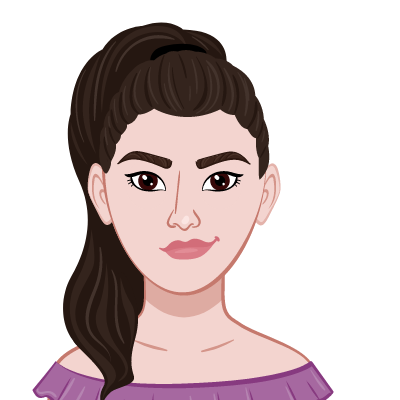
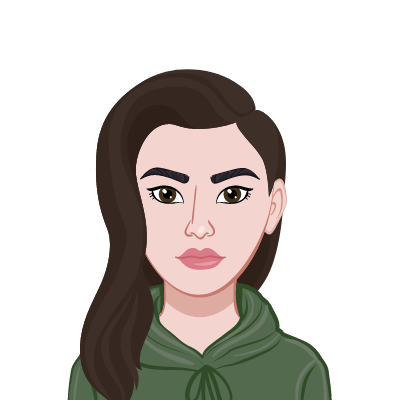
updated CSS and HTML

diff --git a/index.html b/index.html
@@ -18,7 +18,8 @@
     ></script>
     <link rel="stylesheet" href="css/style.css" />
   </head>
-    <nav class="navbar navbar-dark" style="background-color: #6f42c1">
+  <body> 
+    <nav class="navbar navbar-dark" style="background-color: #394a51">
       <div class="container">
         <a class="navbar-brand fw-bold" href="index.html">Jeniree A Castro</a>
         <button
@@ -54,52 +55,47 @@
     <h2 class="text-center">👋 Hi I am</h2>
     <h1 class="text-center fw-bold">Jeniree A Castro</h1>
     <h3 class="text-center fw-semibold">Front-end developer, based in United States</h3>
-    <div class="flip-card">
-  <div class="flip-card-inner">
-    <div class="flip-card-front">
-    <img src="images/AvatarMaker.png" alt="Avatar" width="200px"s>
-     </div>
-    <div class="flip-card-back">
-    <img src="images/Avatar.jpg" alt="Avatar" width="200px">
-    </div>
-  </div>
-</div>
+    <img src="images/AvatarMaker.png" class="rounded mx-auto d-block" alt="Avatar" width="200px"s>
     <div class="navigation-links mb-5">
       <a href="about.html#contact" class="contact-link">Contact me</a>
       <a href="about.html" class="about-link">About me</a>
     </div>
-    </div>
-    <h1 class="text-center ms-6 p-4"> Projects</h1>
-<div class="container">
-  <div class="row">
-    <div class="col-6 d-sm-block">
-      <h2 class="mb-5"> Cat Website 😸</h2>
-      <p>  Lorem ipsum dolor sit amet, consectetur adipisicing elit. Numquam aperiam
+  </div>
+   <div class="container">
+      <div class="row mb-5">
+        <div class="col d-none d-lg-block">
+          <img src="images/catwebsite.jpg" class="img-fluid" alt="Cat Website" width="300px" />
+        </div>
+        <div class="col">
+          <div class="project-desciption">
+            <h2 class="mb-5">Cat Website</h2>
+            <p class="mb-5">
+              Lorem ipsum dolor sit amet, consectetur adipisicing elit. Numquam aperiam
       provident tempora? Cumque adipisci, non dolorem quia, odit qui alias
       veniam excepturi rem dolor fugit dignissimos, sed voluptatum blanditiis
-      harum.</p>
-      <a href="https://s3.amazonaws.com/shecodesio-production/challenge_submissions/files/000/534/115/original/kirara.html?1633935942" class="btn btn-branding-outline" target="_blank">
-        Launch project
-      </a>
+      harum
+            </p>
+            <a href="https://s3.amazonaws.com/shecodesio-production/challenge_submissions/files/000/534/115/original/kirara.html?1633935942" class="btn btn-branding-outline"> Launch project </a>
+          </div>
+        </div>
       </div>
-        <div class="col-6">
-      <img src="images/catwebsite.jpg" class="img-fluid  d-none d-md-block" alt="Cat Website" />
-    </div>
-  </div>
-    <div class="container"> 
-      <div class="row">
-        <div class="col-6">
-          <img src="images/weatherApp.jpg" class="img-fluid p-4 d-none d-md-block" alt="Weather App" />
-        </div> 
-    <div class="col-6">
-      <h2 class="ms-4 p-4"> Weather App🌤 </h2>
-      <p>Lorem ipsum dolor sit amet, consectetur adipisicing elit. Numquam aperiam provident tempora? Cumque adipisci, non dolorem quia, odit qui alias veniam excepturi rem dolor fugit dignissimos, sed voluptatum blanditiis harum.
-
-      </p>
-      <a href="https://blissful-minsky-584121.netlify.app/" class="btn btn-branding-outline" target="_blank"> Launch project </a>
-    </div>
-  </div>
-</div> 
+      <div class="row mb-5">
+        <div class="col">
+          <div class="project-desciption">
+            <h2 class="mb-5">Weather App</h2>
+            <p class="mb-5">
+           Lorem ipsum dolor sit amet, consectetur adipisicing elit. Numquam aperiam
+      provident tempora? Cumque adipisci, non dolorem quia, odit qui alias
+      veniam excepturi rem dolor fugit dignissimos, sed voluptatum blanditiis
+      harum
+            </p>
+            <a href="https://blissful-minsky-584121.netlify.app/" class="btn btn-branding-outline"> Launch project </a>
+          </div>
+        </div>
+        <div class="col d-none d-lg-block">
+          <img src="images/weatherapp.jpg" class="img-fluid" alt="Weather App" width="300px" />
+        </div>
+      </div>
 <p class="text-center mt-4">
 					This project was coded by Jeniree Alvarez and is
 					<a href="https://github.com/Jejexd/Portafolio.git" target="_blank">open-sourced</a>.

diff --git a/css/style.css b/css/style.css
@@ -1,6 +1,6 @@
 :root {
-  --primary-color: #6c63ff;
-  --secondary-color: #f5f2fe;
+  --primary-color: #7fa99b;
+  --secondary-color: #fdc57b;
   --box-shadow: 0 5px 10px rgba(0, 0, 0, 0.3);
 }
 
@@ -21,11 +21,11 @@
 .contact-link {
   background: var(--primary-color);
   box-shadow: var(--box-shadow);
-  color: white;
+  color: #212529;
 }
 
 .about-link {
-  color: var(--primary-color);
+  color: #212529;
   border: 1px solid var(--primary-color);
 }
 
@@ -49,43 +49,21 @@
   font-family: "Smooch", cursive;
 }
 .hero {
-  background: #e7eaf6;
+  background: #fbf2d5;
 }
 
-.flip-card {
-  width: 100px;
-  height: 150px;
-  display: block;
-  margin-left: auto;
-  margin-right: auto;
-  border-radius: 50%;
-}
-
-.flip-card-inner {
-  transition: transform 0.6s;
-  transform-style: preserve-3d;
-}
-
-.flip-card:hover .flip-card-inner {
-  transform: rotateY(180deg);
-}
-
-.flip-card-front,
-.flip-card-back {
-  position: absolute;
-  backface-visibility: hidden;
-}
-
-.flip-card-back {
-  transform: rotateY(180deg);
-}
 .btn-branding-outline {
   background-color: var(--primary-color);
-  margin: 40px;
+  margin: 25px;
   border-radius: 4px;
-  padding: 25px 20px;
+  padding: 15px 30px;
   text-decoration: none;
   text-transform: capitalize;
   color: white;
   border: 1px solid var(--primary-color);
+}
+p {
+  font-weight: normal;
+  font-size: 16px;
+  line-height: 30px;
 }

diff --git a/about.html b/about.html
@@ -19,7 +19,7 @@
     ></script>
   </head>
   <body>
-    <nav class="navbar navbar-dark" style="background-color: #6f42c1">
+    <nav class="navbar navbar-dark" style="background-color: #394a51">
       <div class="container">
         <a class="navbar-brand" href="index.html">Jeniree A Castro</a>
         <button
